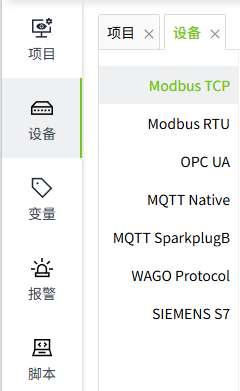
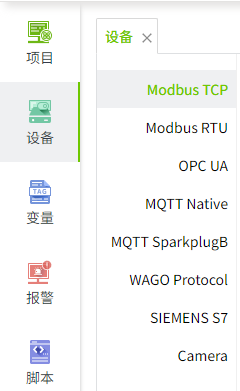
1

diff --git a/docs/management-platform/devices/modbus-tcp/index.md b/docs/management-platform/devices/modbus-tcp/index.md
@@ -1,6 +1,6 @@
 # Modbus TCP
 
-WAGO VC Hub 中的 Modbus TCP 驱动程序通过 TCP/IP 网络通信协议与设备（一般为 PLC、传感器或其他工业设备）进行数据通信。该驱动程序负责处理 Modbus TCP 协议的底层细节，确保设备之间能够实现可靠的数据交互。
+WAGO SCADA 中的 Modbus TCP 驱动程序通过 TCP/IP 网络通信协议与设备（一般为 PLC、传感器或其他工业设备）进行数据通信。该驱动程序负责处理 Modbus TCP 协议的底层细节，确保设备之间能够实现可靠的数据交互。
 
 #### 连接到Modbus TCP设备
 
@@ -40,7 +40,7 @@ WAGO VC Hub 中的 Modbus TCP 驱动程序通过 TCP/IP 网络通信协议与设
 
 5. 在创建的设备的操作栏中，单击“**添加帧**”按钮，为当前设备添加一个帧。
 
-**帧**：同Modbus协议中的数据帧，是数据传输的基本单位，用于记录数据通信的从站地址、存储区域、开始和结束地址、数据编码格式和数据采集的频率，在WAGO VC Hub程序中，I/O变量可以和帧绑定。
+**帧**：同Modbus协议中的数据帧，是数据传输的基本单位，用于记录数据通信的从站地址、存储区域、开始和结束地址、数据编码格式和数据采集的频率，在WAGO SCADA程序中，I/O变量可以和帧绑定。
 
 6. 在添加帧页面，保留默认值，并在以下字段中输入如下信息（说明：以下数据仅为示例，请根据实际情况填写）。
 

diff --git a/docs/management-platform/devices/index.md b/docs/management-platform/devices/index.md
@@ -6,14 +6,14 @@ WAGO SCADA 支持多种通讯协议，对于不同的硬件设施，只需为其
 
 #### 支持的设备类型
 
-- [known-link] 
-- [known-link] 
-- [known-link] 
-- [known-link]
-- [known-link]
-- [known-link]
-- [known-link]
-- [known-link] 
+- [Modbus TCP](modbus-tcp/index.md)
+- [Modbus RTU](modbus-rtu/index.md)
+- [OPC UA](opc-ua/index.md)
+- [MQTT Native](mqtt-native/index.md)
+- [MQTT SparkplugB](mqtt-sparkplugb/index.md)
+- [SIEMENS S7](siemens-s7/index.md)
+- [WAGO Protocol](wago-protocol/index.md)
+- [Camera](camera/index.md)
 
 ![alt text](1.png)
 
@@ -22,10 +22,15 @@ WAGO SCADA 支持多种通讯协议，对于不同的硬件设施，只需为其
 将数据从 PLC 接入 WAGO SCADA 的过程分为两步：
 
 1. 添加设备。
-2. 在编辑器的资产窗口中添加I/O变量。请参阅[known-link]页面。
-3. 为变量绑定数据源，在数据源中选择步骤1中添加的设备。请参阅[known-link]页面。
 
-![alt text](2.png)
+2. 在编辑器的资产窗口中添加I/O变量。请参阅 [创建变量](../assets-and-tags/tag/creating-tags/index.md) 页面。
+
+3. 为变量绑定数据源，在数据源中选择步骤1中添加的设备。请参阅 [I/O变量绑定数据源](../assets-and-tags/tag/creating-tags/io-tag-binding-data-source.md) 页面。
+
+    ![alt text](2.png)
+
+
+
 
 
 
